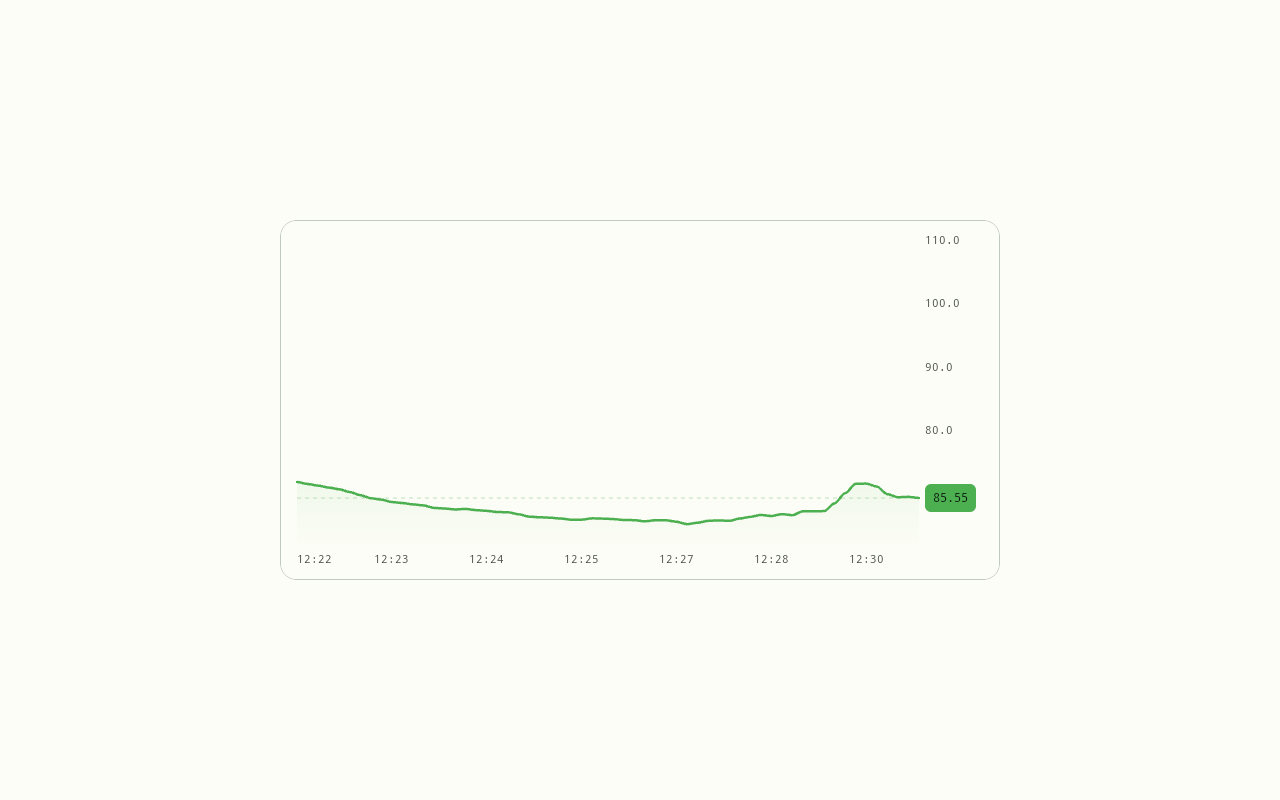
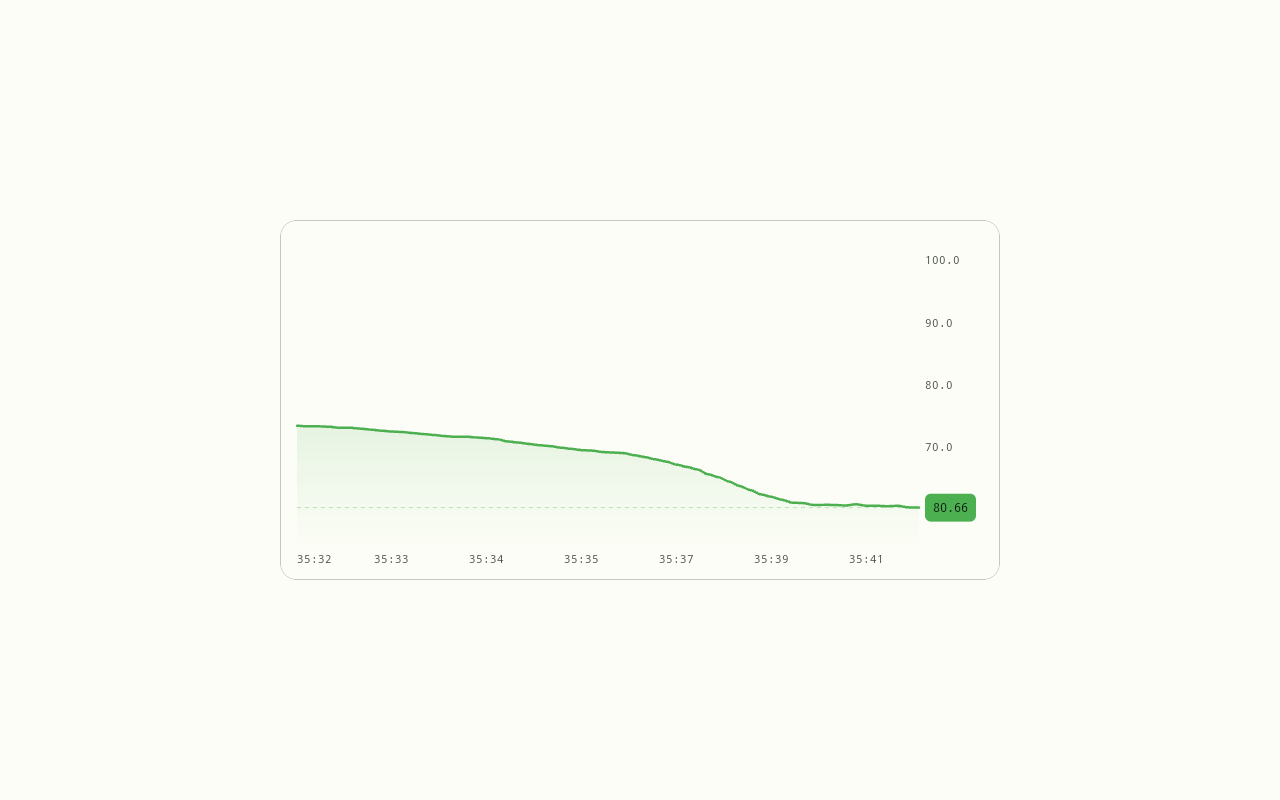
fix(theme): the card margin is 16 px, Space200 on this theme's scale
Under Material on Uno.Themes 9.0.0-dev.61 the Space tokens resolve at
N x 8 px (measured), twice the documented 4 px base, so Space400 gave
a 32 px margin. Screenshots retaken.

Claude-Session: https://claude.ai/code/session_018xTsJQBTiLfieqJekJ23K3

diff --git a/Liveline.Demo/MainPage.xaml b/Liveline.Demo/MainPage.xaml
@@ -14,7 +14,7 @@
             BorderThickness="1"
             MaxWidth="720"
             Height="{utu:Responsive Narrow=280, Normal=360}"
-            Margin="{StaticResource Space400Thickness}"
+            Margin="{StaticResource Space200Thickness}"
             VerticalAlignment="Center"
             Translation="0,0,24">
       <Border.Shadow>
